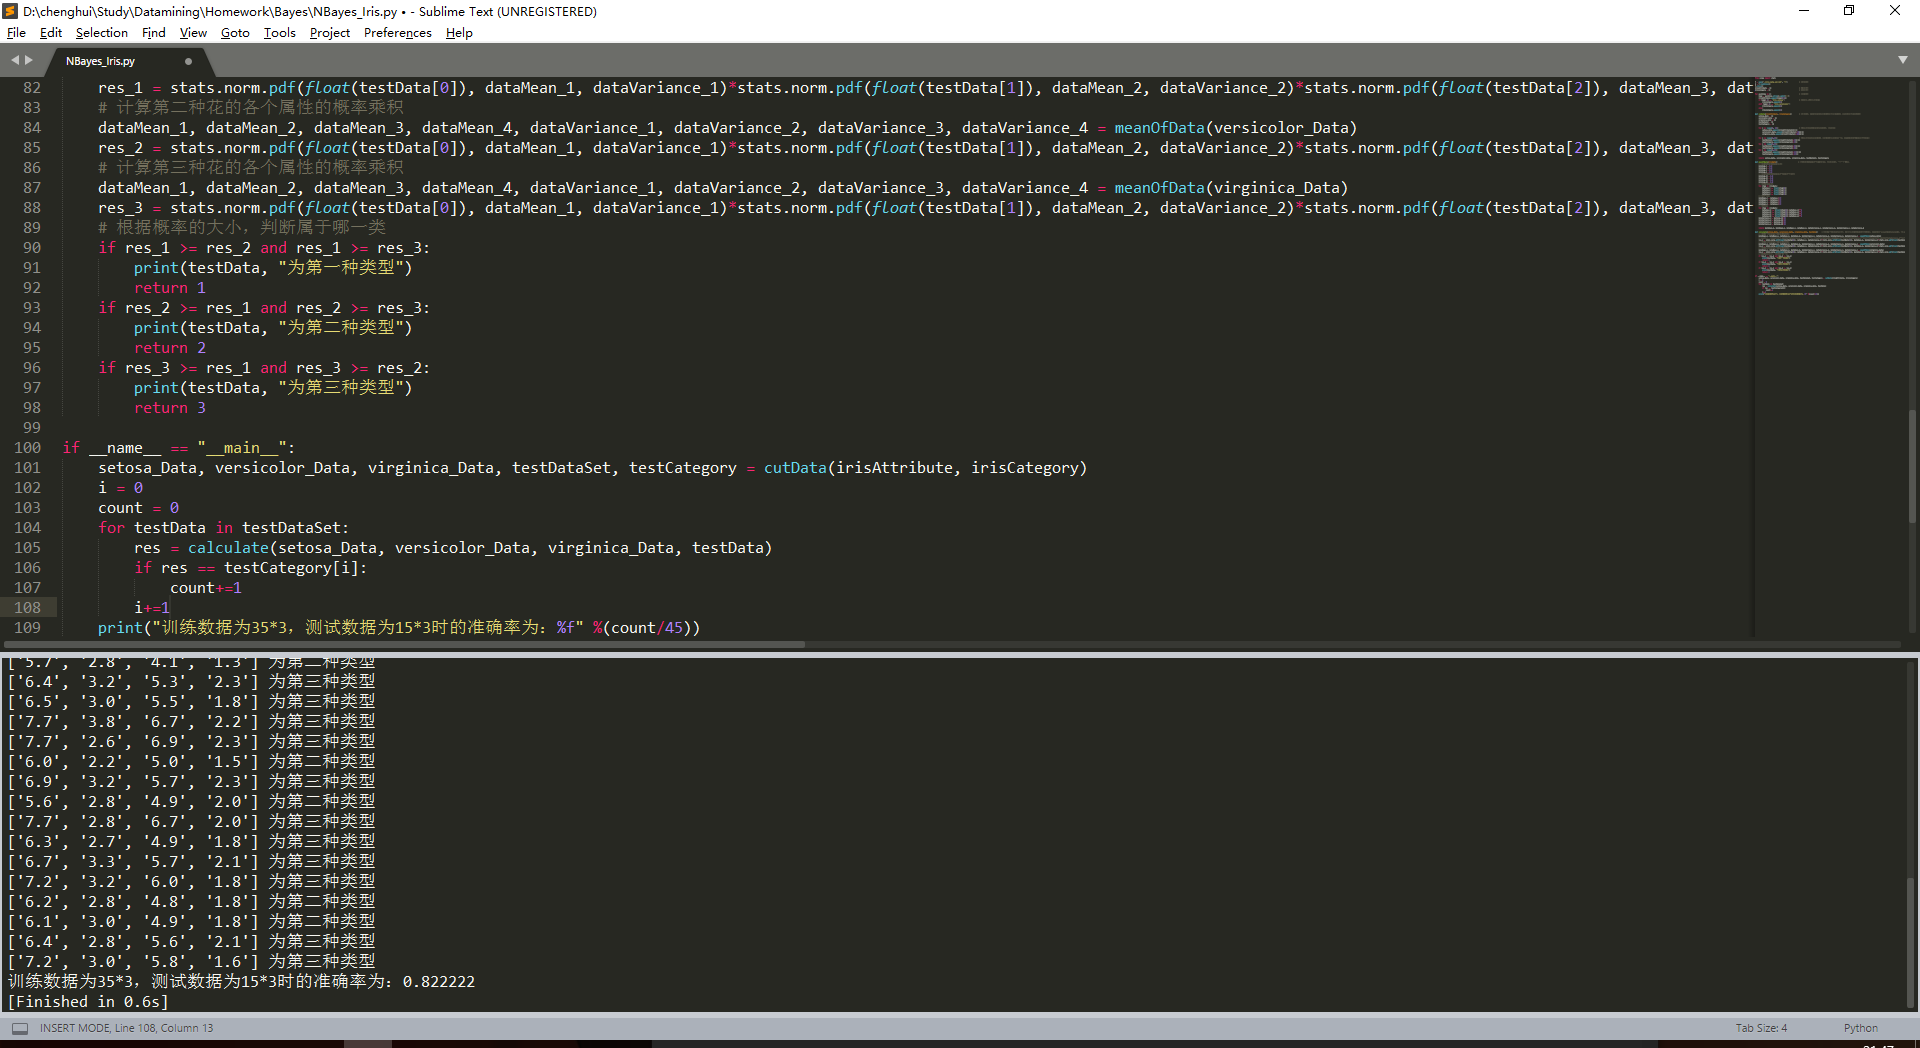
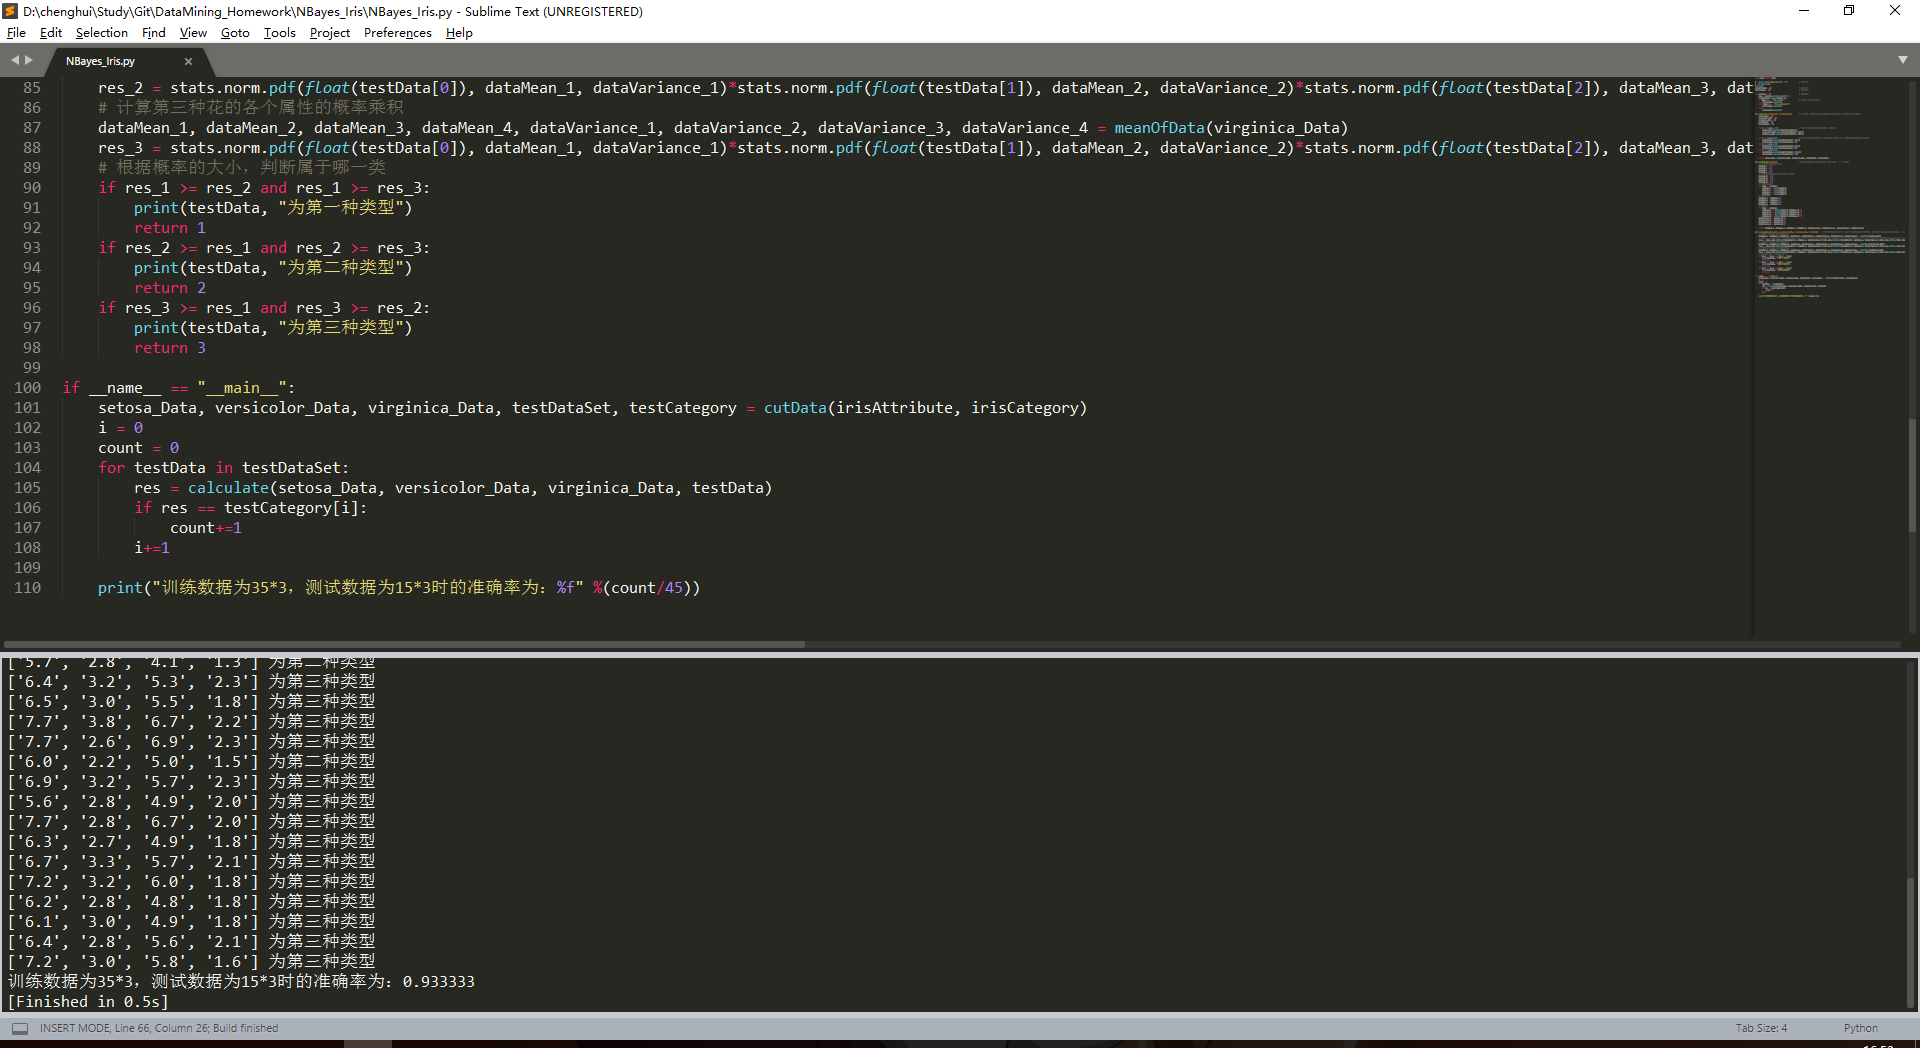
修改一下代码，感谢小伙伴看到的错误。具体修改的是方差计算部分

diff --git a/NBayes_Iris/NBayes_Iris.py b/NBayes_Iris/NBayes_Iris.py
@@ -65,9 +65,9 @@ def meanOfData(irisData):                       # 计算四种属性值的平均
 	# 计算方差
 	for item in irisData:
 		dataSum_11 += (float(item[0])-dataMean_1)**2
-		dataSum_22 += (float(item[0])-dataMean_2)**2
-		dataSum_33 += (float(item[0])-dataMean_3)**2
-		dataSum_44 += (float(item[0])-dataMean_4)**2
+		dataSum_22 += (float(item[1])-dataMean_2)**2
+		dataSum_33 += (float(item[2])-dataMean_3)**2
+		dataSum_44 += (float(item[3])-dataMean_4)**2
 	dataVariance_1 = dataSum_11/34
 	dataVariance_2 = dataSum_22/34
 	dataVariance_3 = dataSum_33/34
